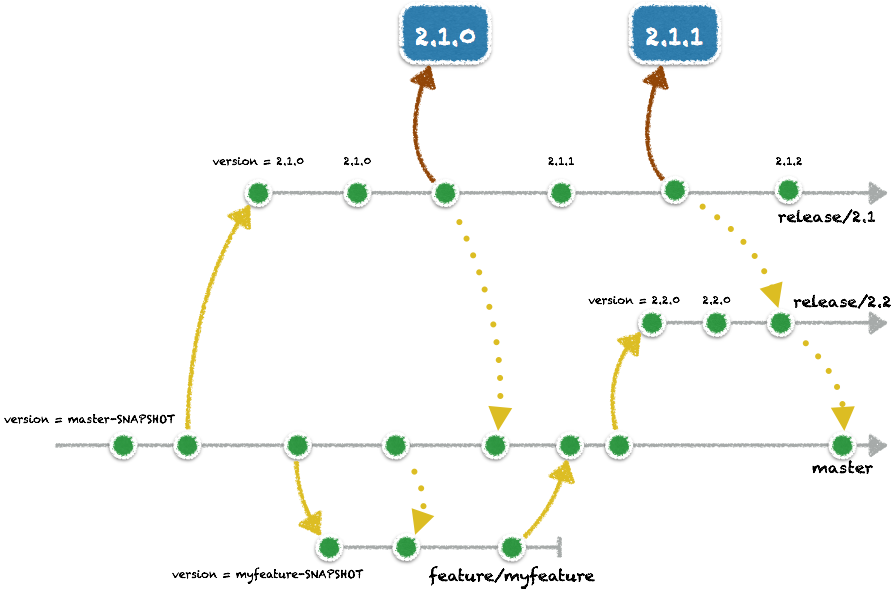
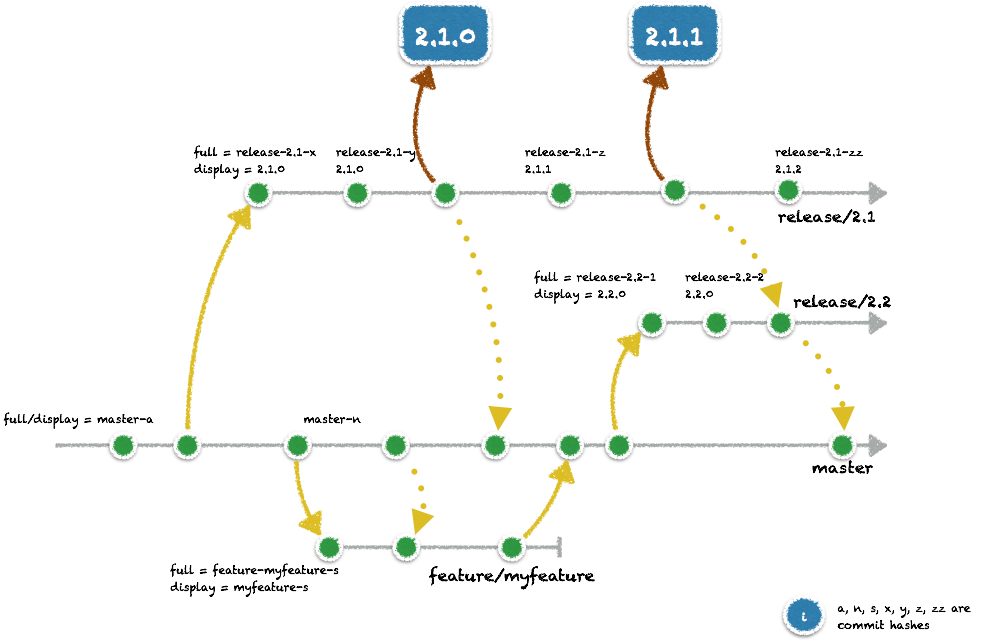
More explicit documentation

diff --git a/README.md b/README.md
@@ -9,18 +9,22 @@ Given a simple release workflow:
 
 ![Release workflow](doc/release-workflow.png)
 
-The computed project's `version` on the `master` and `feature/*` branches is a SNAPSHOT from the base version. For `release/*` branches, the version is computed according the latest tag on the branch, allowing for automatic patch number.
+We get the version information from the branch in two flavours:
+
+* the _full_ version, which is normalised branch name, followed by the short commit hash
+* the _display_ version, which can be used to display the version to an end user, and is computed differently on a `feature/*` or `master` branch than on a `release/*` branch.
+
+The computed project's _display_ version on the `feature/*` and `master` branches is the _base_ version (the normalised branch name without the prefix) and the abbreviated commit hash (or _build_ version). For `release/*` branches, the version is computed according the latest tag on the branch, allowing for automatic patch number.
 
 To achieve such a configuration, just configure the `versioning` plug-in the following way and follow strict conventions for your branch names:
 
 ```groovy
-versioning {
-   displayMode = 'snapshot'
-}
 
 allprojects {
-   version = versioning.info.display
+   version = versioning.info.full
 }
+
+// Using versioning.info.display for generating property files for example
 ```
 
 ## Applying the plug-in
@@ -53,11 +57,11 @@ plugins {
 
 ## Using the versioning info
 
-For example, to set the project's version using the SCM:
+For example, to set the project's _full_ version using the SCM:
 
 ```groovy
 allprojects {
-   version = versioning.info.display
+   version = versioning.info.full
 }
 ```
 
